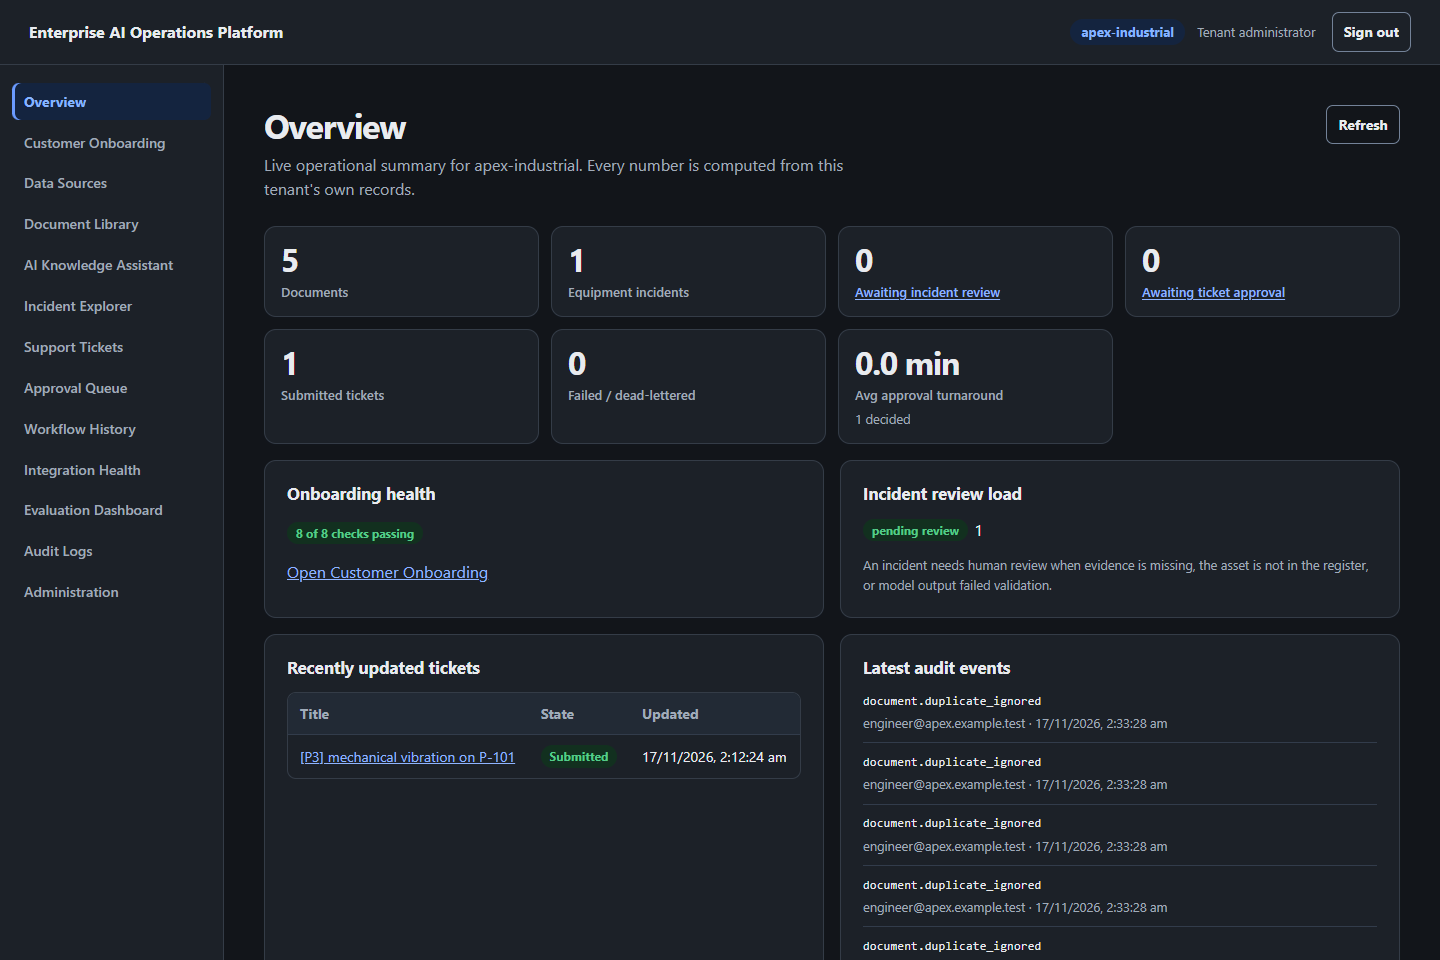
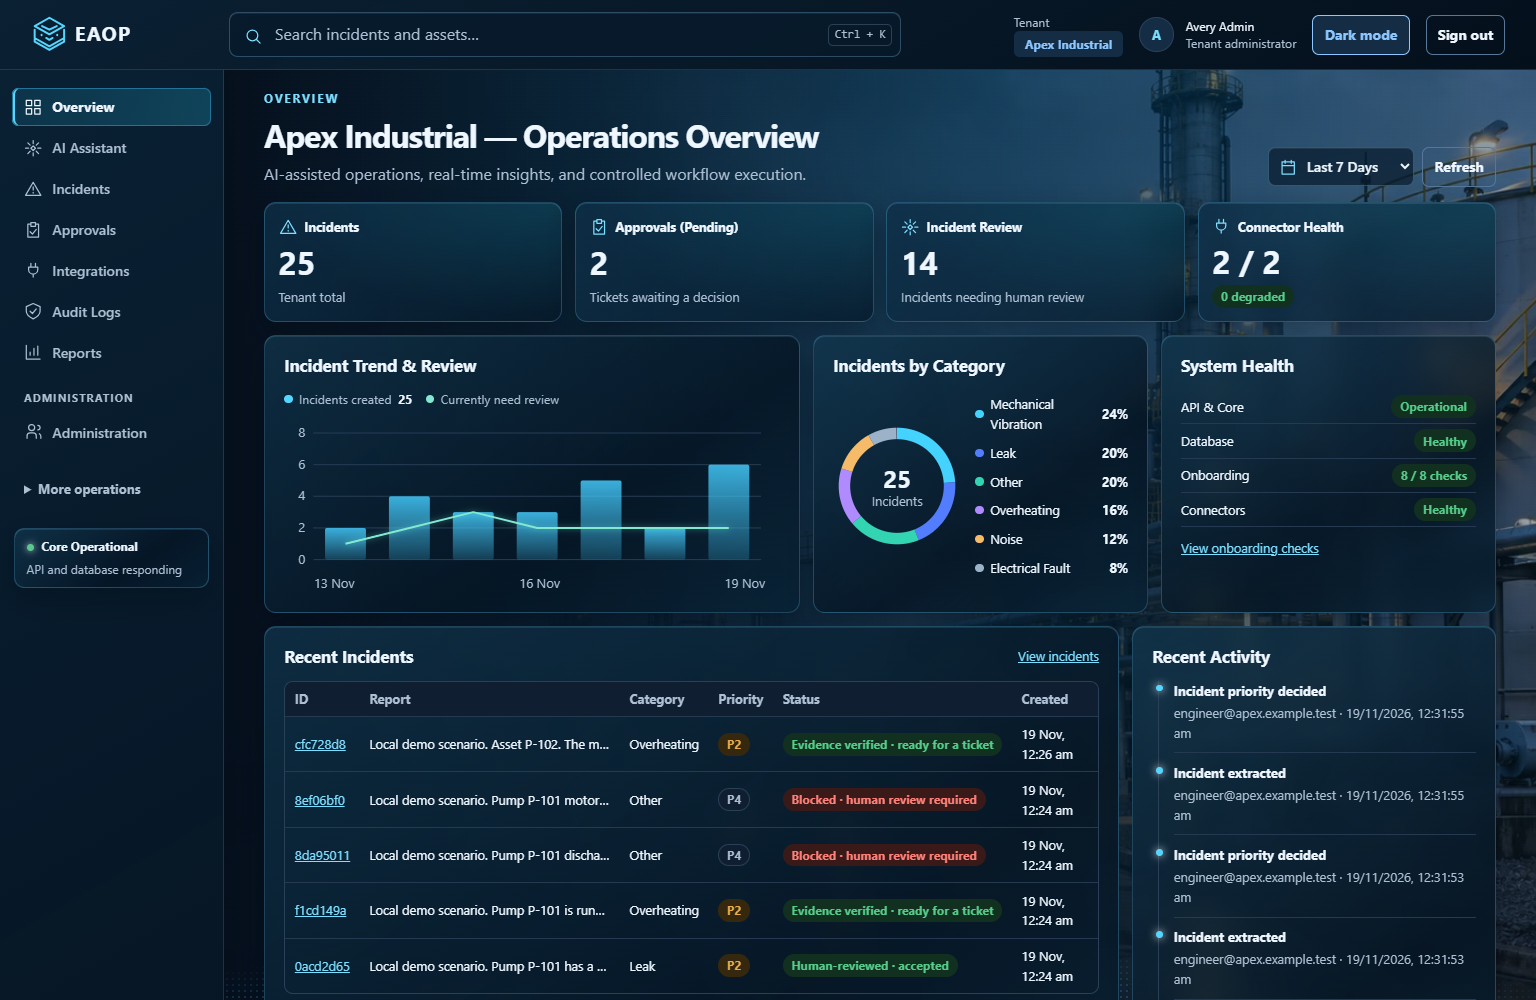
Fix portfolio screenshot check and refresh overview image

diff --git a/scripts/portfolio_check.py b/scripts/portfolio_check.py
@@ -1,4 +1,5 @@
 """Check the tracked portfolio snapshot for private tooling and debug exports."""
+import hashlib
 import re
 import subprocess
 import sys
@@ -11,6 +12,15 @@ INTERNAL_NAMES = {
 }
 DEBUG_DIRS = {"artifacts", "playwright-report", "test-results", ".demo"}
 DEBUG_SUFFIXES = {".zip", ".har", ".log", ".xml", ".webm", ".dump", ".png", ".jpg", ".jpeg", ".webp"}
+# Reviewed README screenshots of fictional demo data. Replacements require review.
+README_SCREENSHOTS = {
[6 lines of base64/hex data omitted]
+}
 MACHINE_PATH = re.compile(
     rb"(?i)[a-z]:(?:[/\\]+)Users(?:[/\\]+)[\w.-]+"
     rb"|(?:/home/|/Users/)(?!me(?:/|[\s\x22]|$))[\w.-]+(?=/)"
@@ -24,11 +34,14 @@ def main() -> int:
         if not name:
             continue
         path = PurePosixPath(name.casefold())
+        content = (ROOT / name).read_bytes()
+        expected_digest = README_SCREENSHOTS.get(name)
+        reviewed = expected_digest is not None and hashlib.sha256(content).hexdigest() == expected_digest
         if (set(path.parts) & (INTERNAL_NAMES | DEBUG_DIRS)
-                or path.suffix in DEBUG_SUFFIXES
+                or (path.suffix in DEBUG_SUFFIXES and not reviewed)
                 or (path.name.startswith(".env") and path.name != ".env.example")):
             findings.append((name, "private tooling, environment or debug export"))
-        if MACHINE_PATH.search((ROOT / name).read_bytes()):
+        if MACHINE_PATH.search(content):
             findings.append((name, "absolute local-machine path"))
     for name, reason in findings:
         print(f"{name}: {reason}")

diff --git a/README.md b/README.md
@@ -50,7 +50,7 @@ The dark-mode walkthrough follows a fictional Apex Industrial maintenance reques
 
 **Tenant overview.** Baseline the incident review backlog, delivery outcomes, and approval turnaround before rolling out the workflow.
 
-![Apex Industrial overview with onboarding health, incident review load, and delivery metrics](docs/images/eaop-apex-overview.png)
+![Refreshed Apex Industrial dashboard with 25 demo incidents, a seven-day bar chart, category breakdown, and system health](docs/images/eaop-apex-overview.png)
 
 **Grounded maintenance answer.** The assistant retrieves tenant documents and shows the passages behind its answer to a pump vibration question.
 
